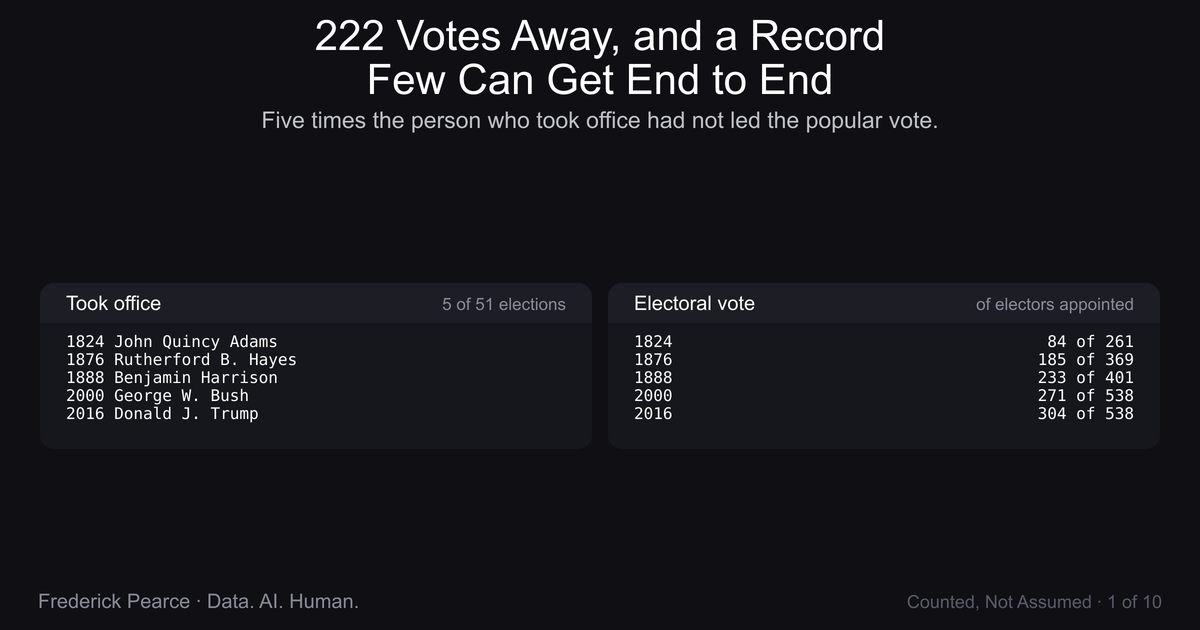
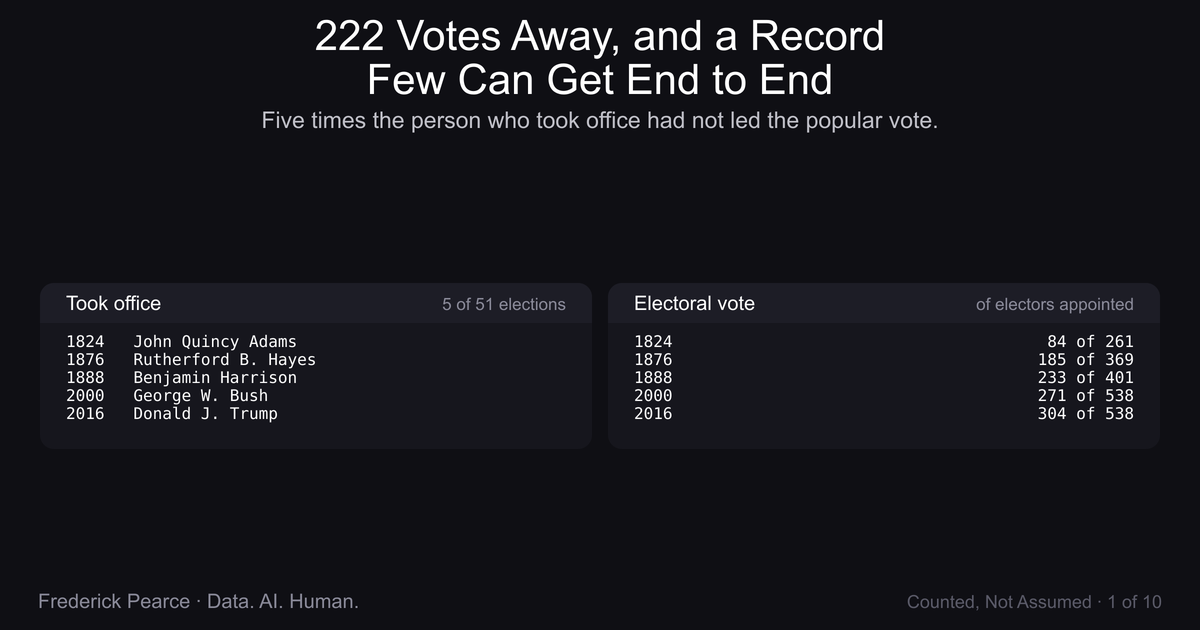
Address code-review findings on post 1's OG card (#152)
All five findings addressed; the medium one was a real defect in the shipped render.

1. (medium) The left panel's three-space gutter did not survive to the PNG. SVG
   <text> inherits xml:space="default", so "1824   John Quincy Adams" shipped as
   "1824 John Quincy Adams" — invisible here because every leading token is a
   four-digit year, and silently broken the first time a brief uses labels of
   differing width. The brief now uses U+00A0, and the renderer *rejects*
   run-of-spaces padding outright with a message naming both sanctioned
   alternatives, so this is enforced rather than remembered. Emitting
   xml:space="preserve" globally would have fixed it too, and was rejected: it
   rewrites the SVG of every already-shipped card, which is the one property this
   chassis promises not to break.

2. (low) The brief's provenance block named `national_electoral_votes` while the
   prose claimed the numerator was the counted measure. `national_electoral_votes`
   is votes *cast*; counted is `national_electoral_votes_counted`. Cast and counted
   agree for all five of these years so no printed figure was wrong, but in a repo
   where that distinction is post 3's whole subject, the line has to point a future
   re-checker at the field the numbers actually came from.

3. (low) MAX_ROWS omitted PANEL_BOTTOM_PAD and so agreed with _panel_box's budget
   only by the accident of the floor-division remainder — raise the pad and a brief
[…]

Changed region(s): [[0.0925, 0.5127, 0.2467, 0.6635]]

diff --git a/tooling/render-og-card.py b/tooling/render-og-card.py
@@ -66,7 +66,11 @@ ROW_TOP_PAD = 24
 # Slack below the last row's baseline. Calibrated so a full-height panel is exactly
 # PANEL_H: HEAD_H + ROW_TOP_PAD + MAX_ROWS*ROW_LEAD + PANEL_BOTTOM_PAD == 436.
 PANEL_BOTTOM_PAD = 12
-MAX_ROWS = (PANEL_H - HEAD_H - ROW_TOP_PAD) // ROW_LEAD
+# Derived from the SAME budget `_panel_box` spends, bottom pad included. Dropping the
+# pad here would agree with `_panel_box` only by the accident of the floor-division
+# remainder: raise PANEL_BOTTOM_PAD and a brief at MAX_ROWS would compute a height
+# above PANEL_H, get silently clamped, and lose the padding it was meant to have.
+MAX_ROWS = (PANEL_H - HEAD_H - ROW_TOP_PAD - PANEL_BOTTOM_PAD) // ROW_LEAD
 # Opt-in per panel via `mono = true`. Specimens that are *tables* (a value column
 # beside a label column) want uniform digit width; specimens that are bare name
 # lists don't. Panels without the flag render exactly as before, so already-shipped
@@ -95,6 +99,31 @@ def _subhead_block(text: str) -> str:
     )
 
 
+def _assert_no_collapsing_runs(panel: dict) -> None:
+    """Reject run-of-spaces column padding, which SVG silently collapses.
+
+    ``<text>`` inherits ``xml:space="default"``, so ``"1824   John Quincy Adams"``
+    ships as ``1824 John Quincy Adams`` — the gutter the brief's author saw in the
+    TOML is simply not in the render. It is invisible when every leading token is the
+    same width (all-4-digit years survive it by luck) and silently ruins the column
+    the moment they are not.
+
+    Emitting ``xml:space="preserve"`` would fix it globally but rewrite the SVG of
+    every already-shipped card, which is exactly the property this chassis promises
+    not to break. So the brief carries U+00A0 instead, and this guard makes the
+    requirement enforced rather than remembered.
+    """
+    for row in panel["rows"]:
+        for text in (row,) if isinstance(row, str) else tuple(row):
+            if "  " in text:
+                raise SystemExit(
+                    f"panel '{panel['label']}' row {text!r} pads a column with "
+                    f"consecutive spaces, which SVG collapses to one. Use U+00A0 "
+                    f'("\\u00A0" in TOML) for a literal gutter, or a [label, value] '
+                    f"pair to anchor a value column."
+                )
+
+
 def _row(x: float, w: float, y: float, row: str | list[str], font: str) -> list[str]:
     """One positional row: a bare label, or a [label, value] pair.
 
@@ -119,7 +148,7 @@ def _row(x: float, w: float, y: float, row: str | list[str], font: str) -> list[
     return parts
 
 
-def _panel_box(n_rows: int) -> tuple[float, float]:
+def _panel_box(n_rows: int) -> tuple[int, int]:
     """``(top, height)`` for a panel holding ``n_rows``, centred in the specimen band.
 
     The chassis was built for ~20-row specimens and hardcoded the panel at the full
@@ -148,6 +177,7 @@ def _panel(x: float, w: float, panel: dict) -> str:
         raise SystemExit(
             f"panel '{panel['label']}' has {len(rows)} rows, max {MAX_ROWS}"
         )
+    _assert_no_collapsing_runs(panel)
 
     top, height = _panel_box(len(rows))
     head_y = top + HEAD_H

diff --git a/tests/unit/test_og_card_render.py b/tests/unit/test_og_card_render.py
@@ -103,6 +103,54 @@ def test_panel_fits_its_rows(renderer: ModuleType) -> None:
         assert last_baseline < top + height, f"{n_rows} rows: last row clipped"
 
 
+@pytest.mark.parametrize("slug", SHIPPED_SLUGS)
+def test_committed_pngs_exist_at_the_published_dimensions(slug: str) -> None:
+    """`og_card_source` points at the PNG, so the PNG is what actually ships.
+
+    Known limit, stated rather than implied: this does **not** prove the PNG was
+    rendered from the committed SVG. Closing that would mean running Inkscape in
+    CI (whose output is not version-stable) or pinning a hash of the SVG into the
+    PNG's metadata. A stale PNG beside a fresh SVG would still pass — re-render
+    deliberately after any chassis change; the byte-identity test above tells you
+    when one happened.
+    """
+    from PIL import Image
+
+    for name, expected in (
+        ("og-card.png", (1200, 630)),
+        ("og-card@2x.png", (2400, 1260)),
+    ):
+        path = _IMAGES / slug / name
+        assert path.is_file(), f"{slug}/{name} missing — the published card"
+        with Image.open(path) as img:
+            assert img.size == expected, f"{slug}/{name} is {img.size}, want {expected}"
+            # RGBA would composite on white in LinkedIn's preview and muddy the
+            # dark card — the renderer flattens for exactly this reason.
+            assert img.mode == "RGB", f"{slug}/{name} is {img.mode}, want RGB"
+
+
+def test_collapsing_space_run_is_rejected(renderer: ModuleType) -> None:
+    """SVG collapses consecutive spaces, so run-padding a column silently fails.
+
+    Regression guard: post 1's brief originally padded with three literal spaces and
+    rendered with one. It survived only because every leading token was a 4-digit
+    year; labels of differing width would have broken the column invisibly.
+    """
+    panel = {
+        "label": "L",
+        "sublabel": "s",
+        "rows": ["1824   John Quincy Adams"],
+    }
+    with pytest.raises(SystemExit, match="collapses"):
+        renderer._panel(0, 100, panel)
+
+
+def test_nbsp_gutter_is_accepted(renderer: ModuleType) -> None:
+    """The sanctioned alternative must actually pass, or the guard is a dead end."""
+    panel = {"label": "L", "sublabel": "s", "rows": ["1824   Adams"]}
+    assert "1824   Adams" in renderer._panel(0, 100, panel)
+
+
 def test_over_max_rows_is_rejected(renderer: ModuleType) -> None:
     """Silent truncation would drop record rows off a published card."""
     panel = {
